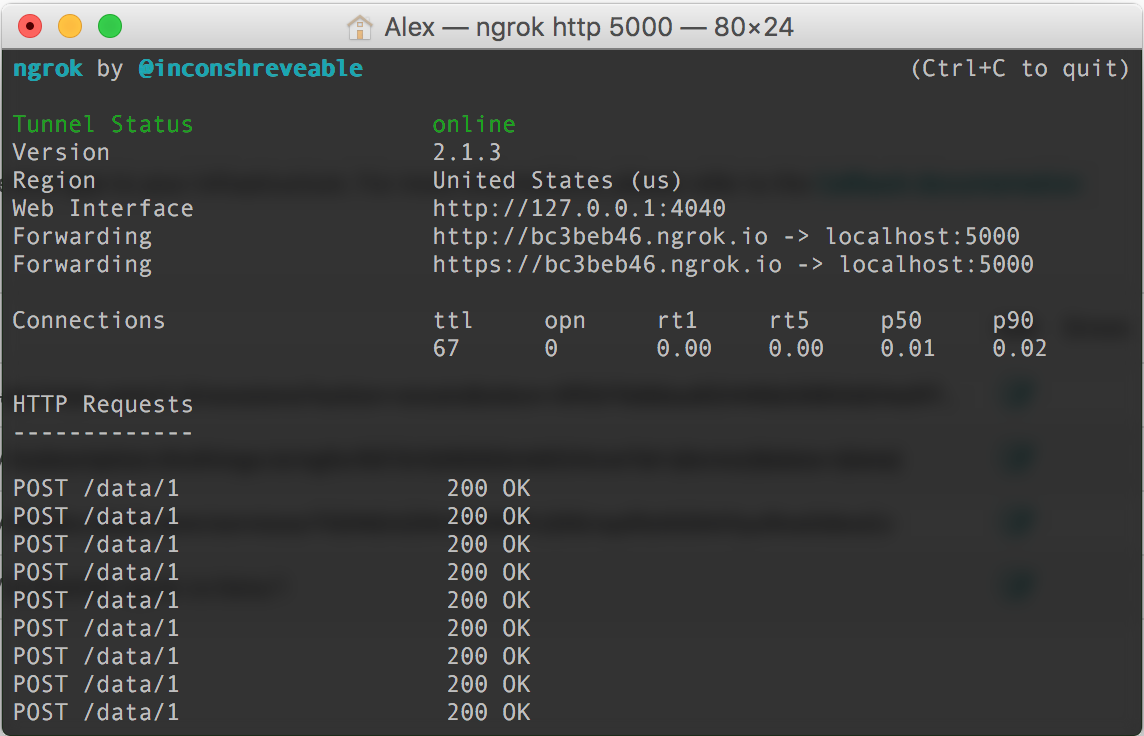
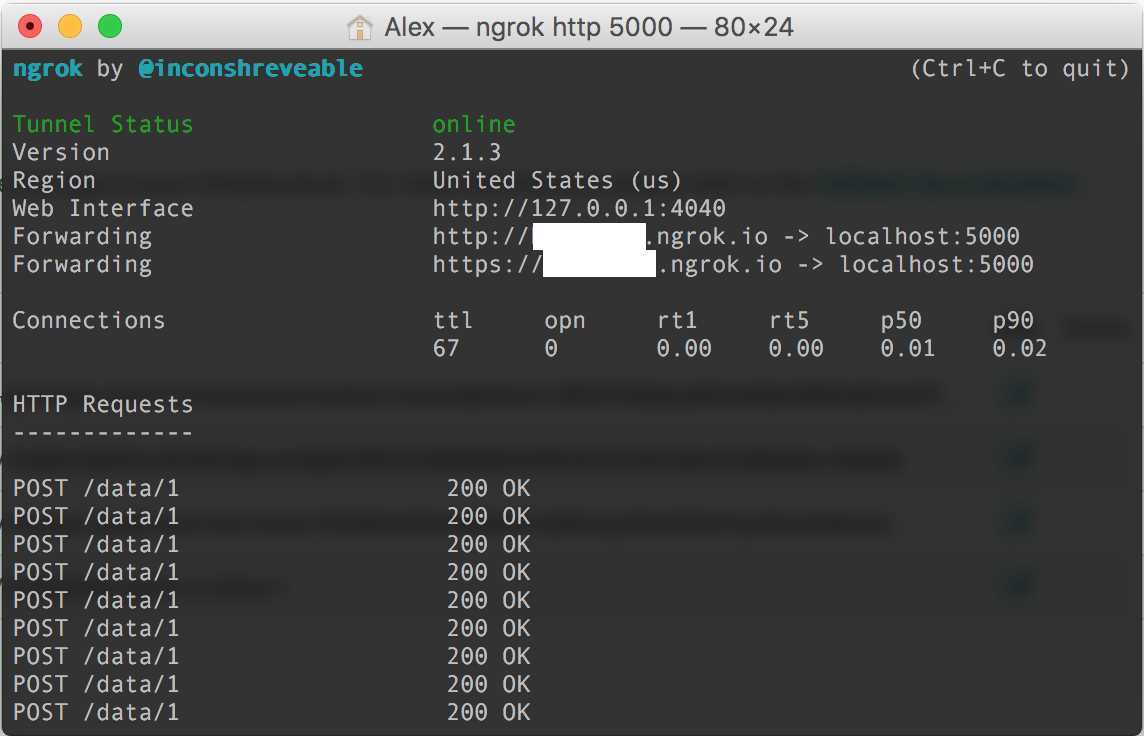
fixed ngrok images

Changed region(s): [[0.4589, 0.2812, 0.5813, 0.375]]

diff --git a/README.md b/README.md
@@ -380,4 +380,12 @@ Click 'OK' to confirm these details. That's it! Everything should be set up and 
 
 ### Further Learning/Exploration
 
+Finished this tutorial and want to extend its functionality? Here's a couple of different things you could try!
+
+* Add Server Authentication using ngrok and/or flask
+
+* Use AJAX to add new data points to the graph without reloading the webpage
+
+* Add additional SIGFOX enabled devices to send more data to the server!
+
 If you want to learn more about SIGFOX and how to get your devices connected to our network check out some of our other tutorials and documentation!
